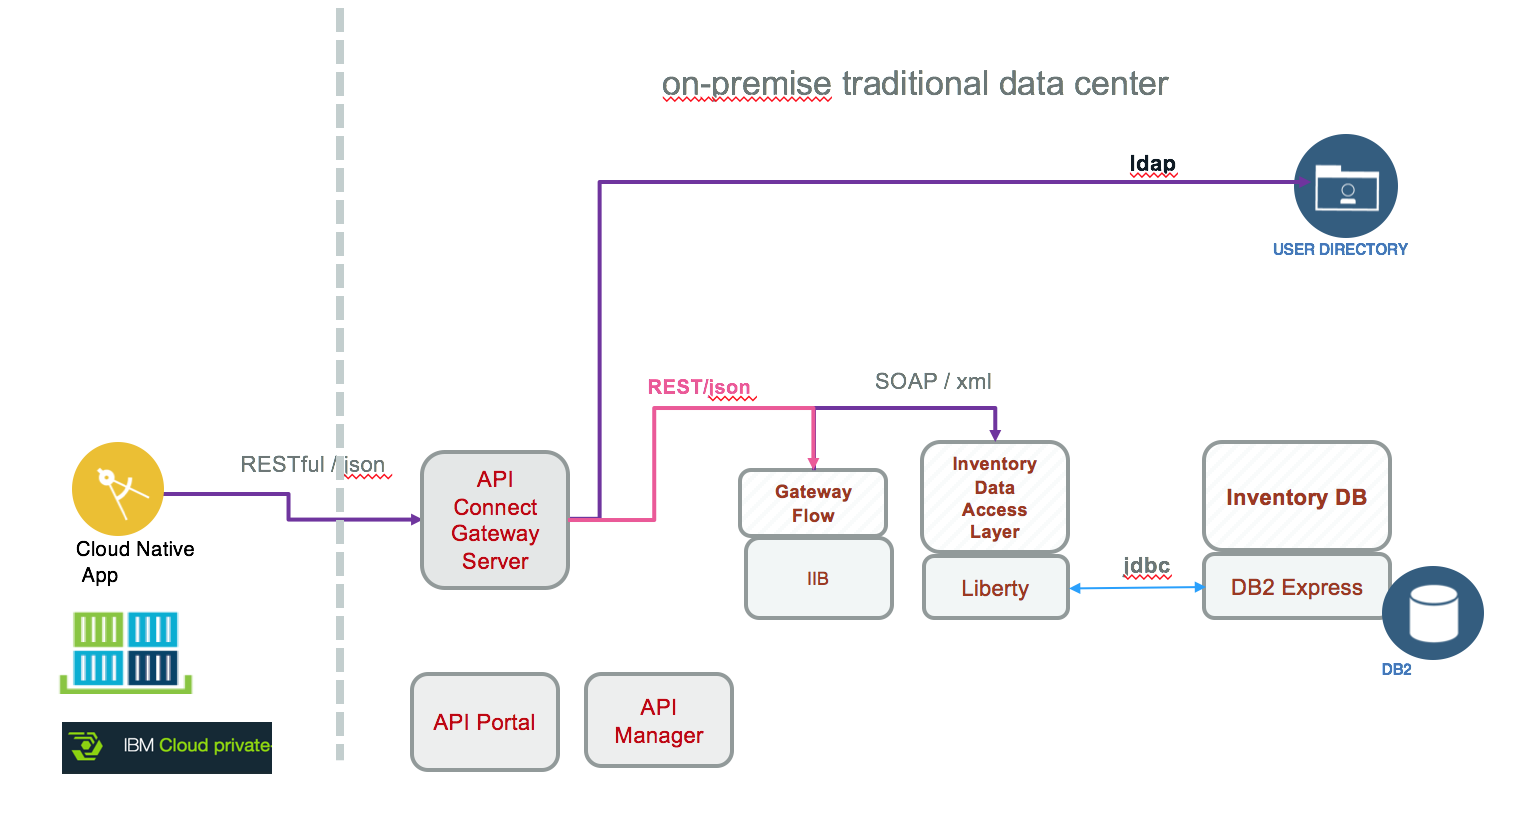
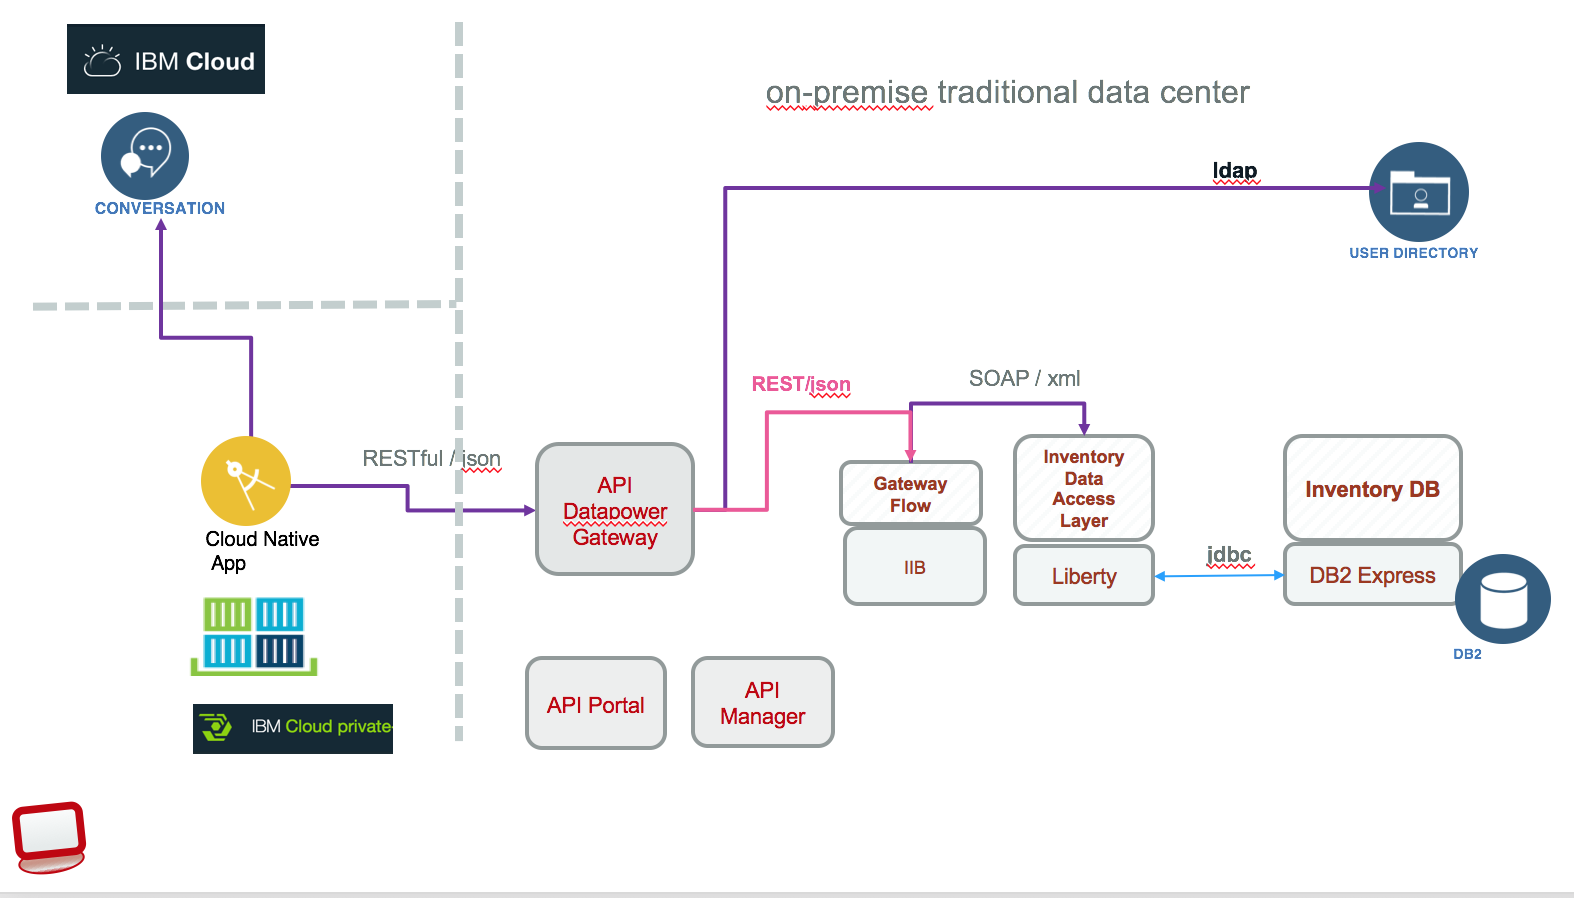
Adapt icp cfg diagram

Changed region(s): [[0.0, 0.0, 1.0, 1.0], [0.4329, 0.0931, 0.8039, 0.1241]]

diff --git a/docs/icp/README.md b/docs/icp/README.md
@@ -1,7 +1,7 @@
 # IBM Cloud Private Deployment
 In this section we are presenting how *Hybrid integration compute implementation* is deployed to IBM Cloud Private. For that we will address different configurations as business and operation requirements may differ per data center and even per business application.
 
-Updated 11/16/2107
+Updated 11/16/2017
 
 ## Prerequisites
 * A conceptual understanding of how [Kubernetes](https://kubernetes.io/docs/concepts/) works.
@@ -15,10 +15,10 @@ Updated 11/16/2107
 
 ![](icp-brown-ns.png)
 
-We will use this namespace to push *brown* components.
+We will use this namespace to push *brown compute* components.
 
 # ICP installation
-For development purpose and tutorials, we are using a ICP EE deployment in a five virtual machine.
+For development purpose and tutorials, we are using a ICP EE deployment in a five virtual machine cluster.
 We also documented how to install ICP 2.1 Community edution on ubuntu VM [here](https://github.com/ibm-cloud-architecture/refarch-cognitive/blob/master/docs/ICP/README.txt)
 
 For enterprise deployment the [following tutorial](https://github.com/ibm-cloud-architecture/refarch-privatecloud/blob/master/Installing_ICp_on_prem.md) will teach you hor to do the installation.
@@ -45,37 +45,40 @@ This is the simplest deployment where the cloud native web application ([the 'ca
 
 This approach will be the less disruptive, let the development team innovating with new polyglot runtime environments supported by cloud native based application and micro services.
 
-To support this configuration you just need to package the web application as docker container, define a helm chart for ICP deployment configuration settings, and use `helm` and `kubectl` command line interfaces.
+To support this configuration you just need to:  
+1. compile and package the web application as docker container
+1. define a helm chart for ICP deployment using yaml for configuration
+1. use `helm` and `kubectl` command line interfaces to install and control deployment
+1. test with integration test defines in [this project](https://github.com/ibm-cloud-architecture/refarch-integration-tests)
 
-The [following tutorial](https://github.com/ibm-cloud-architecture/refarch-caseinc-app/blob/master/docs/icp/README.md) presents how the web app is deployed in detail.
+Follow the step by step [tutorial here](https://github.com/ibm-cloud-architecture/refarch-caseinc-app/blob/master/docs/icp/README.md).
 
-If you want to review each component here are their relative description:
+If you want to review each component here are their description:
 * [API Connect - Inventory product](https://github.com/ibm-cloud-architecture/refarch-integration#inventory-management)
 * [Gateway flow in integration broker](https://github.com/ibm-cloud-architecture/refarch-integration-esb#inventory-flow)
 * [SOAP service for data access Layer](https://github.com/ibm-cloud-architecture/refarch-integration-inventory-dal#code-explanation)
 * [Inventory database](https://github.com/ibm-cloud-architecture/refarch-integration-inventory-db2#inventory-database)
 
-## Cfg 2: Web App, API Connect on ICP
-The approach of this configuration is to deploy API management component to private cloud for the interaction APIs and keep the System APIs on-premise. This configuration is not yet supported as not all of those components are deployable on ICP. Only the API gateway is running on ICP.
+## Cfg 2: Web App, Datapower Gateway on ICP
+This configuration goal is to deploy Data power gateway to private cloud and deploy the interaction APIs defined within API Connect running on-premise.
 
 ![](./bc-icp-cfg2.png)
 
-The gateway flow running the interface mapping runs on IBM Integration bus on-premise: this configuration illustrates deep adoption of the ESB pattern leveraging existing high end deployments, scaling both horizontally and vertically. In this model the concept of operation for mediation and integration logic is kept.
+The second API Datapower gateway is used to present 'System' APIs.
+
+The gateway flow, doing the REST to SOAP interface mapping, runs on IBM Integration bus on-premise: this configuration illustrates deep adoption of the ESB pattern leveraging existing high end deployments, scaling both horizontally and vertically. In this model the concept of operation for mediation and integration logic is kept.
 
 * Deploy webapp to ICP [follows this tutorial](https://github.com/ibm-cloud-architecture/refarch-caseinc-app/blob/master/docs/icp/README.md)
 * Deploy API Connect gateway from ICP Catalog using [this tutorial](https://github.com/ibm-cloud-architecture/refarch-integration-api/blob/master/docs/icp/README.md)
 
-When API Connect will support full container deployment this configuration will be completed.
-For the other component read:
-*
 
-## Cfg 3: Web App, API Connect and Liberty App on ICP
+## Cfg 3: Web App, Datapower Gateway and Liberty App on ICP
 
-For this configuration the web service application running on WebSphere Liberty profile is moved to ICP, while IIB stays on premise, as well as the data base servers. Basically the approach is to keep heavy investment as-is as they are most likely supporting other data base and message flows for other applications. Still the light weight applications and runtime environment can move easily to ICP.
+For this configuration the web service application running on WebSphere Liberty profile is moved to ICP, while IIB stays on premise, as well as the data base servers. Basically the approach is to keep heavy investment as-is as they are most likely supporting other data base and message flows for other applications. Still the light weight applications and runtime environment can move easily to ICP. The interaction APIs is on ICP while the System APIs are running closer to the integration bus. This is more an API ownership control than a technology constraint.
 
 ![Brown on ICP](./bc-icp-cfg3.png)
 
-To support this configuration on top of config 2, the  *Inventory Data Access Layer* app running on Liberty is packaged as docker container and deployed using helm chart deployment configuration. Please read [this article](https://github.com/ibm-cloud-architecture/refarch-integration-inventory-dal/blob/master/docs/icp/README.md) to assess how it is done.
+To support this configuration on top of config 2, the  *Inventory Data Access Layer* app running on Liberty is packaged as docker container and deployed using helm chart deployment configuration. The step by step instruction are in [this article](https://github.com/ibm-cloud-architecture/refarch-integration-inventory-dal/blob/master/docs/icp/README.md).
 
 The LDAP, DB2 server servers are still running on Traditional IT servers.
 

diff --git a/README.md b/README.md
@@ -111,7 +111,7 @@ This set of projects are implementing the Hybrid integration reference architect
 * ESB is used to manage all SOA service
 * VPN or Secure Gateway is used to open secure tunneling between public cloud deployed applications and on-premise services.
 
-The current implementation can run on private cloud and we are presenting this deployment in detail in [this article](docs/icp-deploy.md).
+The current implementation can run on private cloud and we are presenting this deployment in detail in [this article](docs/icp/README.md).
 
 # Project Repositories
 This project leverages a set of projects by applying clear separation of concerns design, n-tiers architecture, and service oriented architecture. The repository order is from left to right from previous diagram.
